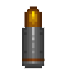
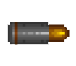
добавлена анимация взрыва

diff --git a/Engine/Bullet.cpp b/Engine/Bullet.cpp
@@ -2,18 +2,19 @@
 #include "RenderManager.h"
 #include "Defines.h"
 #include "Engine.h"
+#include "Map.h"
 float Bullet::BulletSpeed = std_BulletSpeed;
 double Bullet::time = 0;
 
 
 
-Bullet::Bullet(int x, int y,  int dir,double boost) {
+Bullet::Bullet(int x, int y,  int dir,double boost, void* map_) {
 	coordX = x;
 	coordY = y;	
 	direction = dir;
 	speed_boost = boost;
 	IsAlive = 1;
-	texture = engine->mm.loadTexture("map/panzer2.png");
+	map = map_;
 }
 
 void Bullet :: update() {
@@ -33,7 +34,6 @@ void Bullet :: update() {
 }
 void Bullet :: del(){
 	IsAlive = 0;
-	engine->mm.delTexture(texture);
 }
 void Bullet :: logic() {
 
@@ -53,7 +53,8 @@ void Bullet :: draw() {
 		angel = 180;
 		break;
 	}
-	engine->rm.draw_square(texture, 8, pos, angel);
+	engine->rm.draw_square(_ptr(map,Map)->bullet_texture, bullet_width, pos, angel);
+
 }
 float Bullet::dist(Bullet a) {
 	float dx = coordX - a.getX();

diff --git a/Engine/Panzer.cpp b/Engine/Panzer.cpp
@@ -37,7 +37,7 @@ void Panzer::Shoot() {
 		x0 -= 1.4*panzer_width;
 		break;
 	}
-	Bullet p(x0, y0, direction,speed_boost);
+	Bullet p(x0, y0, direction,speed_boost,map);
 	_ptr(map,Map)->AddBullet(p); // use #include "Defines.h" and write like this: _ptr(map,Map)->AddBullet(p);
 	cooldown = std_cooldown/speed_boost;
 	//immortality_time =(immortality_time < std_immortality_time) ? std_immortality_time:immortality_time;

diff --git a/Engine/Explosion.cpp b/Engine/Explosion.cpp
@@ -1,0 +1,15 @@
+#pragma once
+#include "Explosion.h"
+#include "Map.h"
+void Explosion :: draw() {
+	engine->rm.draw_square(_ptr(map, Map)->explosion, expl_size, { coordX,coordY }, 0, lifetime/std_life_time, 16);
+	lifetime += _ptr(map, Map)->GetTime();
+
+}
+Explosion::Explosion(float x,float y,void*map_) {
+	coordX = x;
+	coordY = y;
+	map = map_;
+	lifetime = 0;
+	std::cout << "Explosion is creating";
+}

diff --git a/Engine/Explosion.h b/Engine/Explosion.h
@@ -1,0 +1,18 @@
+#pragma once
+#include "MemoryManager.h"
+#include "RenderManager.h"
+#include "Engine.h"
+#include "PanzerPlayer.h"
+#include <vector>
+class Explosion : public GameObject {
+public:
+	float lifetime;
+	float coordX;
+	float coordY;
+	void* map;
+	void draw();
+	Explosion(float x, float y, void* map_);
+	void init(){};
+	void logic() {};
+	void update() {};
+};

diff --git a/Engine/Bullet.h b/Engine/Bullet.h
@@ -10,12 +10,12 @@ protected:
 	int coordX;
 	int coordY;
 	float speed_boost;
-	
+
 public:
-	GLuint texture;
+	void* map;
 	static double time;
 	Bullet() {};	
-	Bullet(int x, int y, int dir,double boost);
+	Bullet(int x, int y, int dir,double boost,void* map_);
 	void del();
 	int getX() { return coordX; }
 	int getY() { return coordY; }

diff --git a/Engine/Defines.h b/Engine/Defines.h
@@ -28,4 +28,7 @@
 #define text_coord_y5 60
 #define message_x 0
 #define message_y 0
-#define std_swap_time 0.0005
+#define std_swap_time 0.01
+#define bullet_width 20
+#define expl_size 50
+#define std_life_time 1.5
